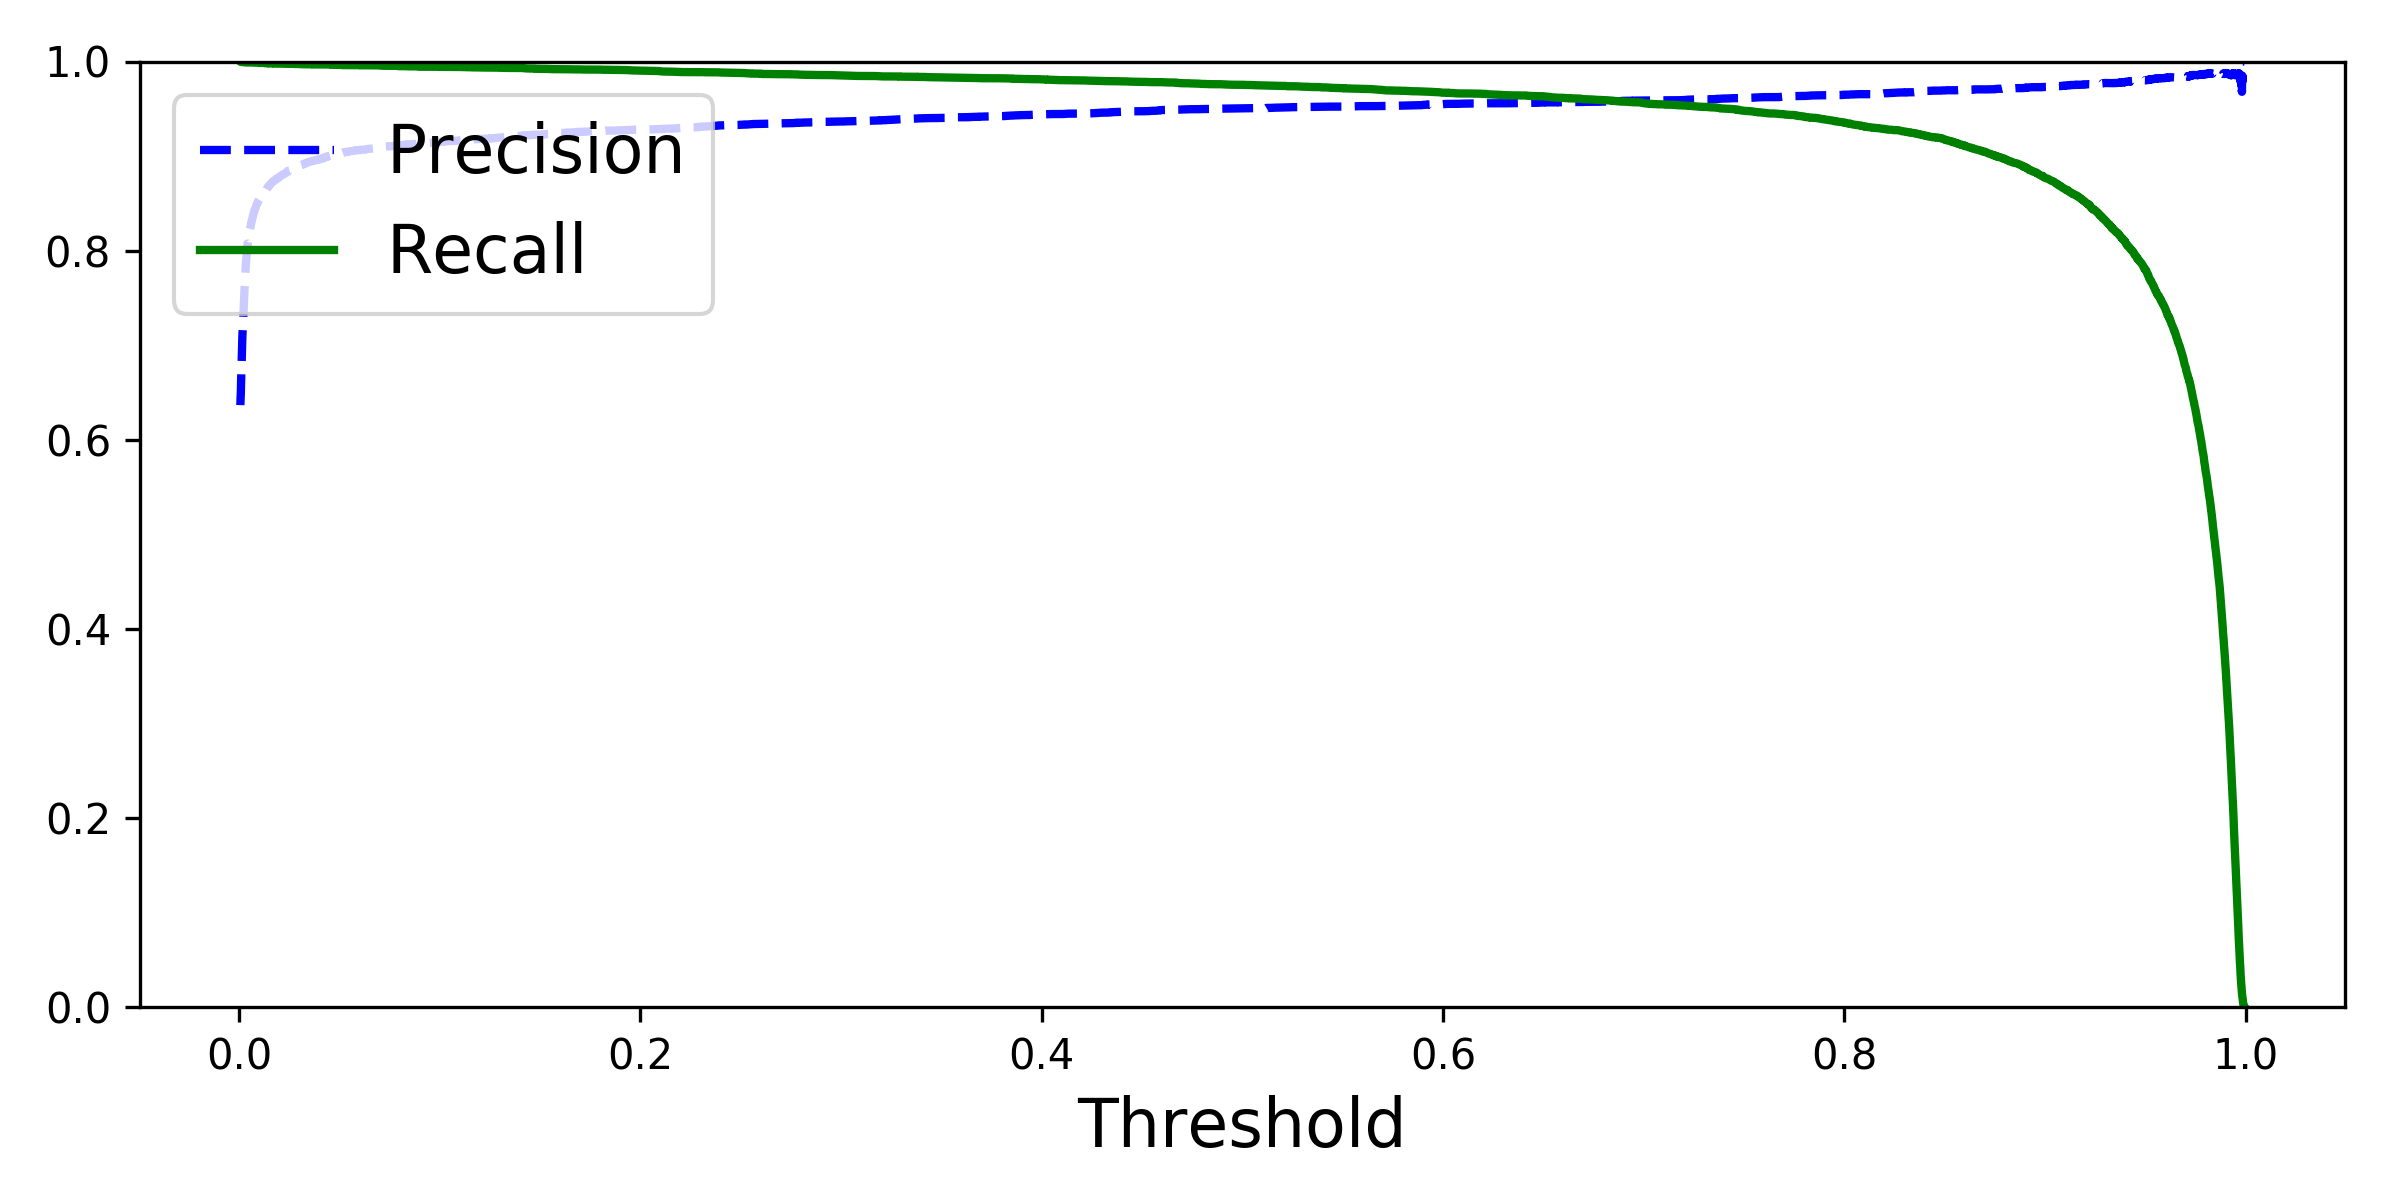
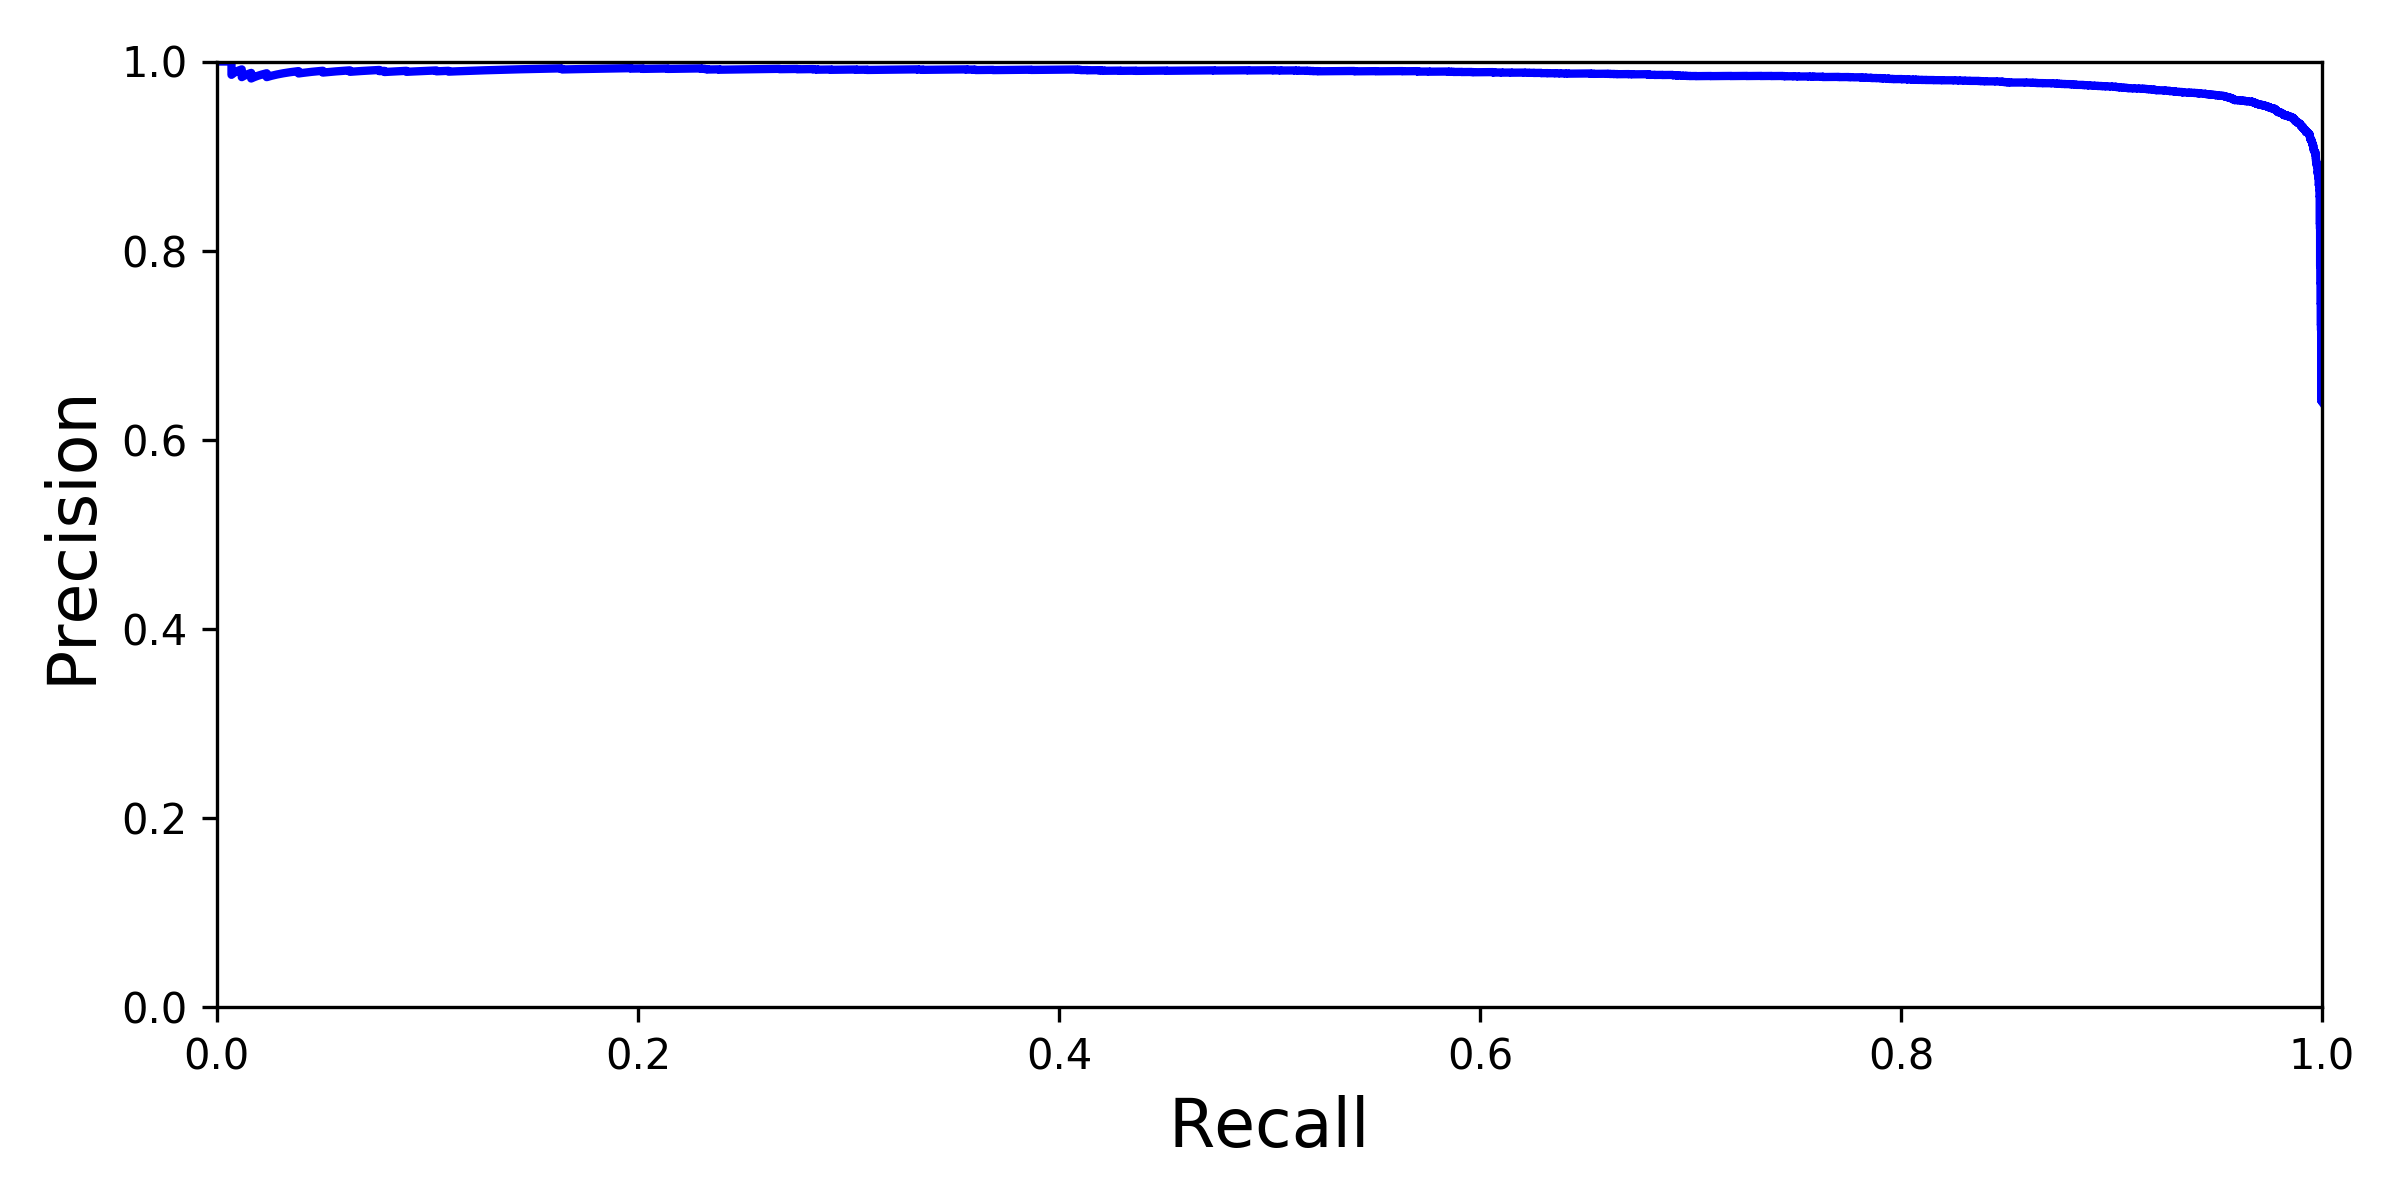
Roc Auc and curves

diff --git a/technews_nlp_aggregator/web/templates/show_report.html b/technews_nlp_aggregator/web/templates/show_report.html
@@ -33,6 +33,7 @@
         <th>PRECISION</th>
         <th>RECALL</th>
         <th>ACCURACY</th>
+        <th>ROC_AUC</th>
         <th>CLF MEAN</th>
         <th>REGR MEAN</th>
     </tr>
@@ -47,6 +48,7 @@
             <td>{{_.TMO_PRECISION}}</td>
             <td>{{_.TMO_RECALL}}</td>
             <td>{{_.TMO_ACCURACY}}</td>
+            <td>{{_.TMO_ROC_AUC}}</td>
             <td>{{_.TMO_YCLF_MEAN}}</td>
             <td>{{_.TMO_YREG_MEAN}}</td>
         </tr>

diff --git a/technews_nlp_aggregator/model/scoring.py b/technews_nlp_aggregator/model/scoring.py
@@ -3,7 +3,7 @@ from sklearn.model_selection import cross_val_score, cross_val_predict
 from sklearn.metrics import precision_score, recall_score, f1_score, accuracy_score, log_loss
 
 from sklearn.metrics import roc_auc_score
-from .common import RELEVANT_COLUMNS, retrieve_X_y_clf
+from .common import RELEVANT_COLUMNS, retrieve_X_y_clf, retrieve_X_y_regr
 
 def print_best_parameters( classifier):
     if hasattr(classifier, "best_estimator_"):
@@ -12,7 +12,7 @@ def print_best_parameters( classifier):
             logging.info("\t%s: %r" % (param_name, best_parameters[param_name]))
 
 
-def threshold_scores_clf(clf, train_df, method="predict_proba", threshold=0.65):
+def threshold_scores_clf(clf, train_df, threshold=0.65, method="predict_proba"):
     X_train, y_train = retrieve_X_y_clf(train_df)
     scores = {}
     y_scores = cross_val_predict(clf, X_train, y_train, cv=5, method=method)
@@ -26,10 +26,20 @@ def threshold_scores_clf(clf, train_df, method="predict_proba", threshold=0.65):
     scores["TMO_RECALL"] = recall
     accuracy = accuracy_score(y_train, y_scores[:, 1] > threshold)
     scores["TMO_ACCURACY"] = accuracy
-    log_loss = accuracy_score(y_train, y_scores[:, 1] > threshold)
-    scores["TMO_LOG_LOSS"] = log_loss
+    log_loss_score = log_loss(y_train, y_scores[:, 1] > threshold)
+    scores["TMO_LOG_LOSS"] = log_loss_score
     roc_auc = roc_auc_score(y_train, y_scores[:, 1] > threshold)
     scores["TMO_ROC_AUC"] = roc_auc
+
+    logging.info("THRESHOLD SCORES ")
+    logging.info("==============================")
+    logging.info("Training set : {} data points".format(len(X_train)))
+    logging.info("F1: %0.8f " % (f1))
+    logging.info("Precision: %0.8f " % (precision))
+    logging.info("Recall: %0.8f " % (recall))
+    logging.info("Accuracy: %0.8f " % (accuracy))
+    logging.info("Log Loss: %0.8f " % (log_loss_score))
+    logging.info("Roc Auc: %0.8f " % (roc_auc))
 
     return scores
 
@@ -47,7 +57,11 @@ def cross_val_score_clf(clf, train_df):
     scores["TMO_ACCURACY"] = accuracy.mean()
     neg_log_loss = cross_val_score(clf, X_train, y_train, cv=5, scoring='neg_log_loss')
     scores["TMO_LOG_LOSS"] = neg_log_loss.mean()
+    roc_auc = cross_val_score(clf, X_train, y_train, cv=5, scoring='roc_auc')
+    scores["TMO_ROC_AUC"] = neg_log_loss.mean()
 
+    logging.info("CLASSIFIER SCORES ")
+    logging.info("==============================")
     logging.info("Training set : {} data points".format(len(X_train)))
     logging.info("F1: %0.8f (+/- %0.8f)" % (f1.mean(), f1.std() * 2))
     logging.info("Precision: %0.8f (+/- %0.8f)" % (precision.mean(), precision.std() * 2))
@@ -62,15 +76,46 @@ def cross_val_score_regr(clf, train_df):
     X_train, y_train = retrieve_X_y_clf(train_df)
     scores = {}
     neg_mean_squared_error = cross_val_score(clf, X_train, y_train, cv=5, scoring='neg_mean_squared_error')
+    logging.info("REGRESSION SCORES ")
+    logging.info("==============================")
     scores["TMO_NMSE"] = neg_mean_squared_error.mean()
     logging.info(
         "Neg Mean Squared Error: %0.8f (+/- %0.8f)" % (neg_mean_squared_error.mean(), neg_mean_squared_error.std() * 2))
 
     return scores
 
-def feature_importances(clf):
-    feature_report = {column: feature_imp for column, feature_imp in
-                           zip(RELEVANT_COLUMNS, clf.feature_importances_)}
 
-    logging.info("Feature importances: {}".format(feature_report ))
+def feature_importances(clf):
+    clf = getattr(clf, 'best_estimator_', clf)
+    if hasattr(clf, 'feature_importance_'):
+        feature_report = {column: feature_imp for column, feature_imp in
+                               zip(RELEVANT_COLUMNS, clf.feature_importances_)}
+
+        logging.info("Feature importances: {}".format(feature_report ))
+    else:
+        logging.info('No feature importance can be calculated for the classifier')
+        feature_report = {}
     return feature_report
+
+
+def mean_scores_clf(train_df):
+    X_train, y_train = retrieve_X_y_clf(train_df)
+    return y_train.mean()
+
+
+def mean_scores_regr(train_df):
+    X_train, y_train = retrieve_X_y_regr(train_df)
+    return y_train.mean()
+
+
+def loop_threshold_scores(train_df, clf):
+    X_train, y_train = retrieve_X_y_clf(train_df)
+    y_scores = cross_val_predict(clf, X_train, y_train, cv=5, method="predict_proba")
+    threshold_range = [0.6 + x * 0.01 for x in range(0, 35)]
+
+    for threshold in threshold_range:
+        logging.info("Precision {}, recall {}, F1 {}, ROC_AUC_score {} for threshold {}".format(
+            precision_score(y_train, y_scores[:, 1] > threshold),
+            recall_score(y_train, y_scores[:, 1] > threshold),
+            f1_score(y_train, y_scores[:, 1] > threshold), roc_auc_score(y_train, y_scores[:, 1] > threshold),
+            threshold))

diff --git a/do_boost.py b/do_boost.py
@@ -5,7 +5,9 @@ import os
 from technews_nlp_aggregator.persistence.articles_similar_repo import ArticlesSimilarRepo
 from technews_nlp_aggregator.persistence.model_repo import ModelRepo
 from technews_nlp_aggregator.model.xgboost_fit import create_classifier, create_regressor
-from technews_nlp_aggregator.model.scoring import threshold_scores_clf, cross_val_score_clf, cross_val_score_regr, feature_importances
+from technews_nlp_aggregator.model.scoring import threshold_scores_clf, cross_val_score_clf, cross_val_score_regr, \
+    feature_importances, mean_scores_clf, mean_scores_regr, loop_threshold_scores
+from technews_nlp_aggregator.model.visualization import map_threshold
 
 import sys
 from sklearn.externals import joblib
@@ -38,11 +40,21 @@ if __name__ == '__main__':
     regressor = create_regressor(train_df)
     joblib.dump(clf, xboost_model_file)
 
-    training_model.update(cross_val_score_clf(clf, train_df))
-    training_model.update(cross_val_score_regr(clf, train_df))
+    clf_scores = cross_val_score_clf(clf, train_df)
+    regr_scores = cross_val_score_regr(regressor, train_df)
+    threshold_scores = threshold_scores_clf(clf, train_df, threshold=threshold)
+
+    training_model.update(threshold_scores)
+    training_model.update(regr_scores )
+
+    training_model["TMO_YCLF_MEAN"] = mean_scores_clf(train_df)
+    training_model["TMO_YREG_MEAN"] = mean_scores_regr(train_df)
+
 
     modelRepo.save_model_performance(training_model)
     modelRepo.save_feature_report('R', feature_importances(clf ))
     modelRepo.save_feature_report('C', feature_importances(regressor ))
 
-    #map_threshold(train_df, clf)
+    loop_threshold_scores(train_df, clf)
+
+    map_threshold(train_df, clf)

diff --git a/technews_nlp_aggregator/model/xgboost_fit.py b/technews_nlp_aggregator/model/xgboost_fit.py
@@ -4,7 +4,7 @@ import logging
 
 from sklearn.model_selection import cross_val_score, GridSearchCV, cross_val_predict
 from xgboost import XGBRegressor, XGBClassifier
-from .common import retrieve_X_y_clf, RELEVANT_COLUMNS
+from .common import retrieve_X_y_clf, retrieve_X_y_regr
 from .scoring import print_best_parameters
 
 xgb_clfr_params = {
@@ -54,10 +54,7 @@ def create_regressor(train_df):
     logging.info(" ============= REGRESSOR ====================== ")
     logging.info("train_df has {} rows".format(len(train_df)))
 
-    result_columns = 'SCO_USER'
-    X_train = np.array(train_df[RELEVANT_COLUMNS])
-    y_train = np.array(train_df[result_columns])
-
+    X_train, y_train = retrieve_X_y_regr(train_df)
 
     clf =  GridSearchCV(XGBRegressor(), xgb_regr_params, cv=5, scoring='neg_mean_squared_error')
 
@@ -66,8 +63,8 @@ def create_regressor(train_df):
 
     clf.fit(X_train, y_train)
     print_best_parameters(clf)
-    logging.info("Returning model metrics : {}".format(model_returned))
     return clf
+
 
 
 

diff --git a/technews_nlp_aggregator/model/common.py b/technews_nlp_aggregator/model/common.py
@@ -8,3 +8,11 @@ def retrieve_X_y_clf(train_df, threshold=0.65):
     X_train = np.array(train_df[RELEVANT_COLUMNS])
     y_train = np.array(train_df[result_columns].map(lambda x: 1 if x > threshold else 0))
     return X_train, y_train
+
+
+def retrieve_X_y_regr(train_df):
+    result_columns = 'SCO_USER'
+    X_train = np.array(train_df[RELEVANT_COLUMNS])
+    y_train = np.array(train_df[result_columns])
+    return X_train, y_train
+
